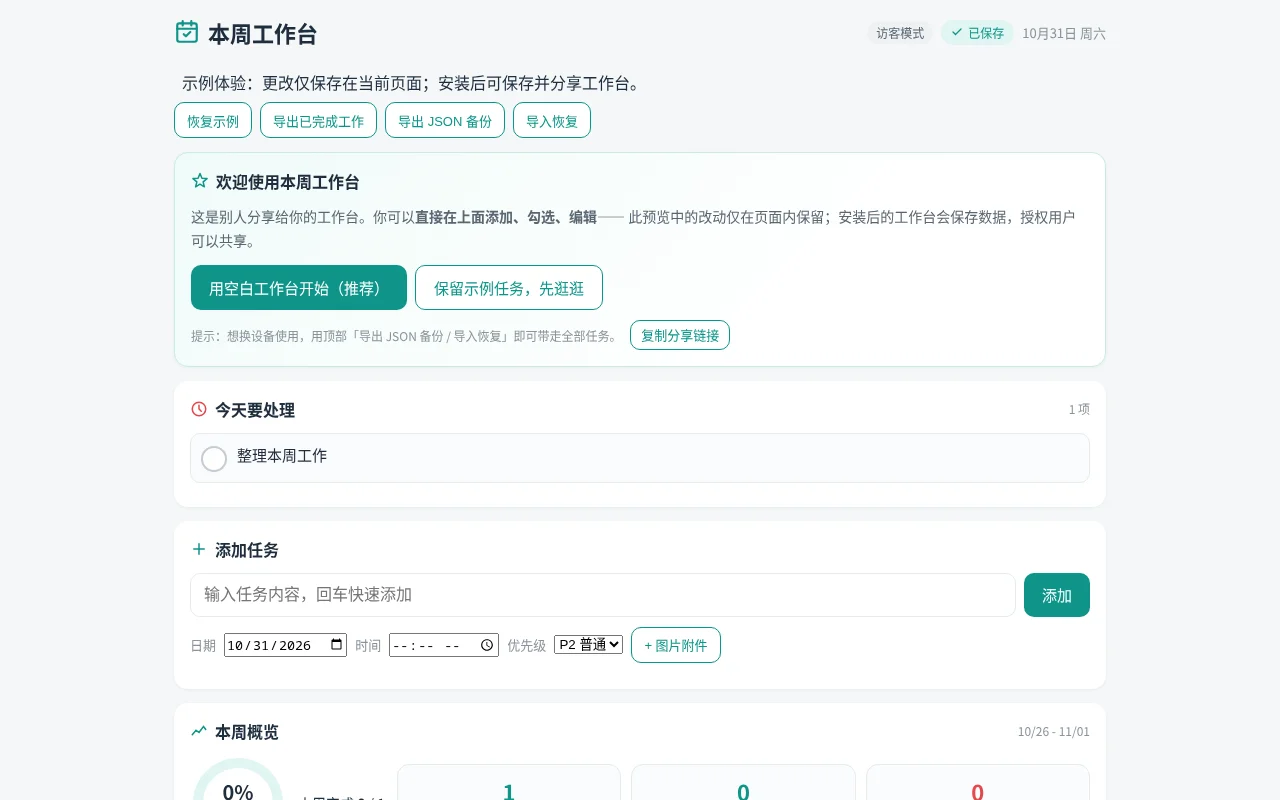
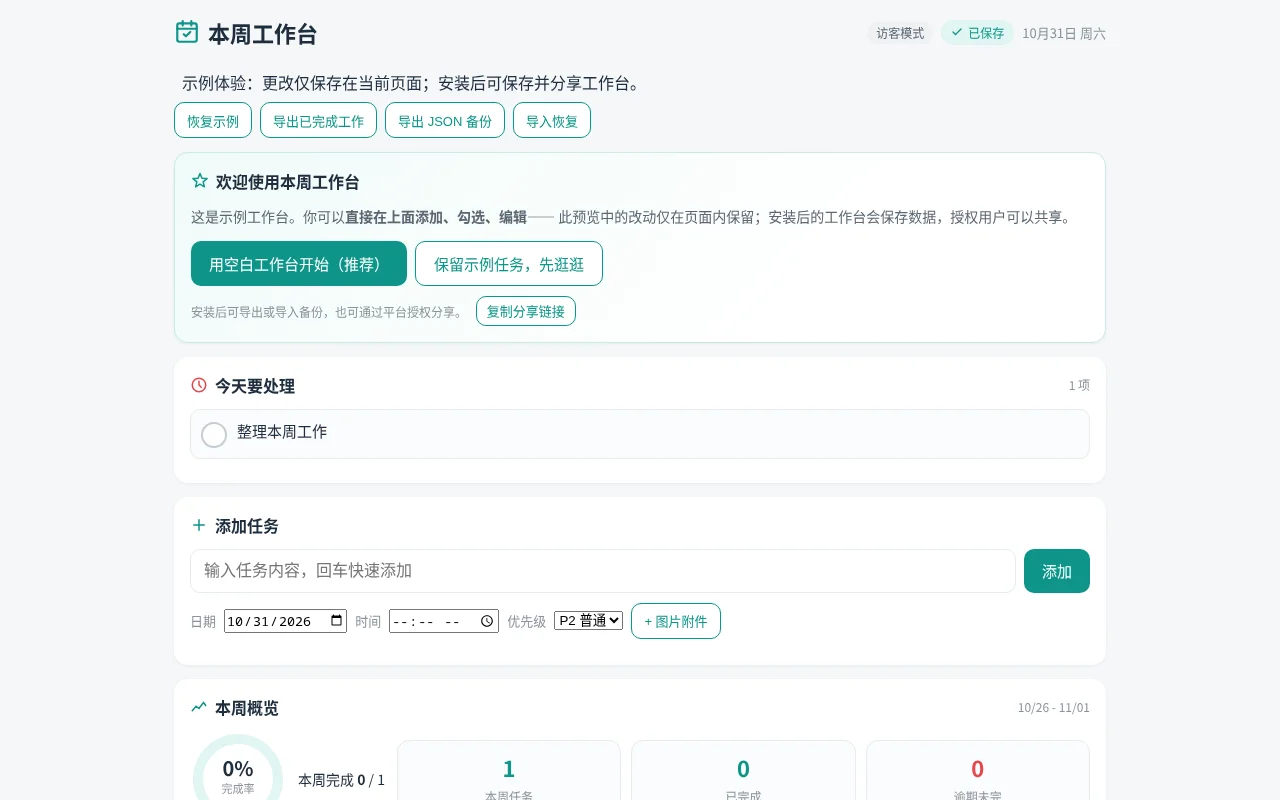
Add weekly workspace template

diff --git a/6f5602769e494d436b47d966/src/main.js b/6f5602769e494d436b47d966/src/main.js
@@ -1,11 +1,10 @@
 import { createTianaFetch } from '@tianacloud/serverless';
 import css from "./style.css?inline";
-const style = document.createElement("style"); style.textContent = css; document.head.appendChild(style);
 import body from "./body.html?raw";
-document.title="本周工作台"; document.body.innerHTML=body; document.body.style.pointerEvents="none";
+let appRoot, files;
 
 /* ========== 数据层 ========== */
-var tasks=[], pendingImgs=[], editId=null, editDone=null, isOwner=false;
+var tasks=[], pendingImgs=[], pendingUploads=0, editId=null, editDone=null, isOwner=false;
 var sqlFetch, connection, revision=0, saving=Promise.resolve(), saveFailed=false;
 var imageUrls=new Map();
 const textArg=value=>({type:'text',value:String(value)});
@@ -17,7 +16,7 @@ async function execute(sql,args=[]){
   return result.response.result;
 }
 async function load(){
-  if(!window.tiana?.auth?.getAccessToken || !window.tiana?.files?.put) throw Error('数据或文件服务未就绪');
+  if(!window.tiana?.auth?.getAccessToken || !files?.put) throw Error('数据或文件服务未就绪');
   connection=await window.tiana.connection();
   if(connection.sql_api!=='hrana-v3') throw Error('数据库协议不支持');
   sqlFetch=createTianaFetch({origin:connection.origin,auth:window.tiana.auth,requestBodyMode:'buffered'});
@@ -29,7 +28,7 @@ async function load(){
   await Promise.all(tasks.flatMap(t=>t.images||[]).map(resolveImage));
 }
 async function resolveImage(path){
-  if(!imageUrls.has(path)) imageUrls.set(path,await window.tiana.files.getUrl(path));
+  if(!imageUrls.has(path)) imageUrls.set(path,await files.getUrl(path));
   return imageUrls.get(path);
 }
 function save(){
@@ -206,6 +205,7 @@ function delTask(id){
   save(); refreshAll(); toast('已删除');
 }
 function addTask(){
+  if(pendingUploads){toast('请等待图片上传完成');return;}
   var inp=document.getElementById('inpTitle');
   var title=inp.value.trim(); if(!title){ toast('请输入任务内容'); return; }
   tasks.push({ id:uid(), title:title, note:'', date:document.getElementById('inpDate').value||todayStr(),
@@ -264,13 +264,13 @@ function viewImg(src){ document.getElementById('viewerImg').src=src; document.ge
 async function storeImage(file){
   if(!file || !file.type.startsWith('image/')) throw Error('请选择图片');
   const path='attachments/'+crypto.randomUUID(); let uploadId;
-  try { await window.tiana.files.put(path,file,{onPrepared:r=>{uploadId=r.id;}}); }
-  catch(e){ if(!uploadId) throw e; let status=await window.tiana.files.uploadStatus(uploadId); if(!status.completed) status=await window.tiana.files.completeUpload(uploadId); if(!status.completed) throw Error('图片上传结果未知，请稍后检查'); }
+  try { await files.put(path,file,{onPrepared:r=>{uploadId=r.id;}}); }
+  catch(e){ if(!uploadId) throw e; let status=await files.uploadStatus(uploadId); if(!status.completed) status=await files.completeUpload(uploadId); if(!status.completed) throw Error('图片上传结果未知，请稍后检查'); }
   await resolveImage(path); return path;
 }
 async function onPickImgs(input){
   const fs=Array.from(input.files||[]); input.value='';
-  for(const file of fs){ if(pendingImgs.length>=9){toast('最多 9 张图片');break;} try{ pendingImgs.push(await storeImage(file)); renderPending(); }catch(e){alert('图片上传失败：'+e.message);break;} }
+  pendingUploads++; try { for(const file of fs){ if(pendingImgs.length>=9){toast('最多 9 张图片');break;} try{ pendingImgs.push(await storeImage(file)); renderPending(); }catch(e){alert('图片上传失败：'+e.message);break;} } } finally {pendingUploads--;}
 }
 function renderPending(){
   document.getElementById('pendingImgs').innerHTML=pendingImgs.map(function(src,i){
@@ -283,7 +283,7 @@ function rmPending(i){ pendingImgs.splice(i,1); renderPending(); }
 async function exportJSON(){
   try {
     const copy=await Promise.all(tasks.map(async t=>({...t,images:await Promise.all((t.images||[]).map(async path=>{
-      const response=await window.tiana.files.get(path); if(!response.ok) throw Error('图片读取失败');
+      const response=await files.get(path); if(!response.ok) throw Error('图片读取失败');
       const blob=await response.blob(); return await new Promise((resolve,reject)=>{const reader=new FileReader();reader.onload=()=>resolve(reader.result);reader.onerror=reject;reader.readAsDataURL(blob);});
     }))})));
     const blob=new Blob([JSON.stringify(copy,null,2)],{type:'application/json'}); const a=document.createElement('a'); a.href=URL.createObjectURL(blob); a.download='本周工作台备份_'+todayStr()+'.json'; a.click(); setTimeout(()=>URL.revokeObjectURL(a.href),1000); toast('已导出备份');
@@ -331,7 +331,7 @@ function clearSeed(){
 }
 /* ===== 一键盘成「我自己的工作台」 ===== */
 function makeMine(){
-  if(!confirm('将清空当前示例任务，换成一张空白工作台。这将清空当前工作台的任务，确定继续？'))return;
+  if(!confirm('将清空当前工作台的任务，确定继续？'))return;
   tasks=[]; isOwner=true;
   save(); closeWelcome(); refreshAll(); toast('已建成你的工作台，开始添加任务吧');
 }
@@ -345,7 +345,7 @@ function closeWelcome(){
 function shareLink(){
   var url=location.href.split('?')[0];
   if(navigator.clipboard&&navigator.clipboard.writeText){
-    navigator.clipboard.writeText(url).then(function(){ toast('链接已复制，发给同事即可'); },function(){ prompt('复制这个链接分享：',url); });
+    navigator.clipboard.writeText(url).then(function(){ toast('链接已复制，请先通过平台授权分享'); },function(){ prompt('复制这个链接分享：',url); });
   } else { prompt('复制这个链接分享：',url); }
 }
 
@@ -358,7 +358,7 @@ async function init(){
   var wd='日一二三四五六'[d.getDay()];
   document.getElementById('dateLabel').textContent=d.getMonth()+1+'月'+d.getDate()+'日 周'+wd;
   document.getElementById('inpDate').value=todayStr();
-  try { await load(); } catch(e) { document.body.innerHTML='<p style="padding:24px">无法加载工作台，请检查数据和文件连接后重新打开。</p>'; return; }
+  try { await load(); } catch(e) { appRoot.innerHTML='<p style="padding:24px">无法加载工作台，请检查数据和文件连接后重新打开。</p>'; return; }
   document.getElementById('inpTitle').addEventListener('keydown',function(e){ if(e.key==='Enter')addTask(); });
   // 粘贴：文本建任务，图片作附件
   document.getElementById('inpTitle').addEventListener('paste',function(e){
@@ -367,17 +367,15 @@ async function init(){
       if(items[i].type.indexOf('image')===0){
         e.preventDefault();
         if(pendingImgs.length>=9){ toast('最多 9 张图片'); return; }
-        storeImage(items[i].getAsFile()).then(d=>{pendingImgs.push(d);renderPending();toast('截图已粘贴为附件');}).catch(()=>alert('图片上传失败，请重试')); 
+        pendingUploads++; storeImage(items[i].getAsFile()).then(d=>{if(pendingImgs.length<9){pendingImgs.push(d);renderPending();toast('截图已粘贴为附件');}}).catch(()=>alert('图片上传失败，请检查后重试')).finally(()=>pendingUploads--); 
         return;
       }
     }
   });
   document.getElementById('editMask').addEventListener('click',function(e){ if(e.target===this)closeEdit(); });
   document.getElementById('viewer').addEventListener('click',function(e){ if(e.target===this)this.classList.remove('show'); });
-  refreshAll(); document.body.style.pointerEvents='';
+  refreshAll(); appRoot.style.pointerEvents='';
 }
-init();
-
 Object.assign(window,{load,save,flashSync,uid,toast,pad,fmt,todayStr,weekRange,inWeek,sorted,getTodayItems,getWeekTasks,weekStats,dayCounts,esc,prioChip,imgHtml,taskHtml,renderToday,renderWeekList,renderStats,renderTools,renderWelcome,refreshAll,toggleDone,delTask,addTask,openEdit,closeEdit,saveEdit,shiftDate,shiftNextWeek,edToggleDone,edDelete,viewImg,onPickImgs,renderPending,rmPending,exportJSON,exportDone,importJSON,clearSeed,makeMine,dismissWelcome,closeWelcome,shareLink,seed});
 
 const allowedActions = new Set(["addTask","clearSeed","closeEdit","dismissWelcome","edDelete","edToggleDone","exportDone","exportJSON","makeMine","saveEdit","shareLink","shiftDate","shiftNextWeek","delTask","openEdit","rmPending","toggleDone","viewImg","importJSON","onPickImgs"]);
@@ -393,7 +391,14 @@ function dispatchAction(el, action) {
   else if (arg !== '') return;
   window[match[1]](arg);
 }
-for (const type of ['click','change']) document.addEventListener(type, event => {
-  const el = event.target.closest('[data-' + type + ']');
-  if (el) dispatchAction(el, el.getAttribute('data-' + type));
-});
+function handleAction(event){
+  const el=event.target.closest('[data-'+event.type+']');
+  if(el && appRoot.contains(el)) dispatchAction(el,el.getAttribute('data-'+event.type));
+}
+export async function mount(root, context){
+  appRoot=root; files=context.files; document.title='本周工作台'; root.innerHTML=body; root.style.pointerEvents='none';
+  const style=document.createElement('style'); style.textContent=css; root.append(style);
+  for(const type of ['click','change']) root.addEventListener(type,handleAction);
+  await init();
+  return ()=>{for(const type of ['click','change']) root.removeEventListener(type,handleAction);style.remove();};
+}

diff --git a/6f5602769e494d436b47d966/showcase/preview.html b/6f5602769e494d436b47d966/showcase/preview.html
@@ -126,7 +126,7 @@ h1 svg{width:26px;height:26px}
   <div class="card welcome" id="welcome" style="display:none">
     <h2><svg fill="none" stroke="#0e9488" stroke-linecap="round" stroke-linejoin="round" stroke-width="2" viewBox="0 0 24 24"><path d="M12 2l2.6 6.3 6.8.5-5.2 4.4 1.6 6.6L12 16.3 6.2 19.8l1.6-6.6L2.6 8.8l6.8-.5L12 2z"/></svg><!--pnid:9p3glRyzXrgPc1fpGAFsb6-->欢迎使用本周工作台</h2>
     <p style="font-size:14px; line-height:1.7; color:#5a6773; margin-bottom:12px"><!--pnid:yD0ugNjvlHcqUCwnk1Cg2x-->
-      这是别人分享给你的工作台。你可以<strong><!--pnid:vHpW3LGTqD8VHCuI0u3UKM-->直接在上面添加、勾选、编辑</strong><!--pnid:sIPjqtv7gH465eQcm0k50N-->——
+      这是示例工作台。你可以<strong><!--pnid:vHpW3LGTqD8VHCuI0u3UKM-->直接在上面添加、勾选、编辑</strong><!--pnid:sIPjqtv7gH465eQcm0k50N-->——
       此预览中的改动仅在页面内保留；安装后的工作台会保存数据，授权用户可以共享。
     </p>
     <div style="display:flex; gap:8px; flex-wrap:wrap">
@@ -134,7 +134,7 @@ h1 svg{width:26px;height:26px}
       <button class="btn ghost" onclick="dismissWelcome()"><!--pnid:IyAfkwXyfzScAzTx903CaR-->保留示例任务，先逛逛</button>
     </div>
     <p style="font-size:12px; color:#8a939c; margin-top:10px"><!--pnid:DdeokQ3v6JeFgwHPw8gcQJ-->
-      提示：想换设备使用，用顶部「导出 JSON 备份 / 导入恢复」即可带走全部任务。
+      安装后可导出或导入备份，也可通过平台授权分享。
       <button disabled title="安装后可用" class="btn small ghost" onclick="shareLink()" style="margin-left:6px; min-height:30px; padding:3px 10px"><!--pnid:KeWY9l7RLrsmejppJKoBac-->复制分享链接</button>
     </p>
   </div>
